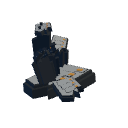
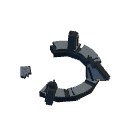
Refine local ruin architecture and separate manufactured debris candidates

Changed region(s): [[0.1562, 0.1562, 0.875, 0.8438]]

diff --git a/frontend/components/space/webgl/feature-art.ts b/frontend/components/space/webgl/feature-art.ts
@@ -95,7 +95,35 @@ export function createFeatureModel(kind: FeatureArtKind, objectId: string): THRE
   })
 
   if (kind === 'ruin' || kind === 'debris') {
-    const primary = new THREE.MeshStandardMaterial({ color: 0xb6c1c7, roughness: 0.72, metalness: 0.66 })
+    // Instance-owned brushed metal/pitting. Broad plate faces need material
+    // variation at close range as well as geometric seams; plain gray was plastic.
+    const side = 128, surface = new Uint8Array(side * side * 4), relief = new Uint8Array(side * side * 4)
+    const grain = seeded('manufactured-01-brushed-armor')
+    for (let y = 0; y < side; y++) for (let x = 0; x < side; x++) {
+      const p = (y * side + x) * 4
+      const scratch = grain() < 0.018
+      const variation = (grain() - 0.5) * 15 + Math.sin(y * 2.7) * 3 - (scratch ? 36 : 0)
+      surface[p] = 177 + variation
+      surface[p + 1] = 188 + variation
+      surface[p + 2] = 199 + variation
+      surface[p + 3] = 255
+      relief[p] = relief[p + 1] = relief[p + 2] = 180 + variation
+      relief[p + 3] = 255
+    }
+    const armorMap = new THREE.DataTexture(surface, side, side)
+    armorMap.colorSpace = THREE.SRGBColorSpace
+    const armorRelief = new THREE.DataTexture(relief, side, side)
+    for (const texture of [armorMap, armorRelief]) {
+      texture.wrapS = texture.wrapT = THREE.RepeatWrapping
+      texture.magFilter = THREE.LinearFilter
+      texture.minFilter = THREE.LinearFilter
+      texture.needsUpdate = true
+    }
+    const primary = new THREE.MeshStandardMaterial({ color: 0xd0d7dc, map: armorMap,
+      roughness: 0.66, roughnessMap: armorRelief, metalness: 0.72, bumpMap: armorRelief, bumpScale: 0.006,
+      // Restrained neutral fill keeps dead armor readable under the world's
+      // low ambient light; no bloom, animation, warning or powered-energy accent.
+      emissive: 0x52606c, emissiveIntensity: 0.16 })
     const graphite = new THREE.MeshStandardMaterial({ color: 0x29333c, roughness: 0.84, metalness: 0.58 })
     const amber = new THREE.MeshStandardMaterial({ color: 0xc19145, emissive: 0xa96718, emissiveIntensity: 0.3, roughness: 0.55, metalness: 0.45 })
     const plate = (parent: THREE.Object3D, size: [number, number, number], position: [number, number, number], material: THREE.Material) => {
@@ -138,45 +166,84 @@ export function createFeatureModel(kind: FeatureArtKind, objectId: string): THRE
       return section
     }
     if (kind === 'ruin') {
-      // A collapsed architectural spine with uneven, leaning armored buttresses.
-      const foundation = hull(1.05, random())
-      foundation.position.set(-0.08, -0.23, 0)
-      foundation.rotation.set(0.14, -0.25, 0.06)
-      assembly.add(foundation)
-      for (let i = 0; i < 4; i++) {
-        const tower = new THREE.Group()
-        tower.position.set(-0.45 + i * 0.25, -0.02, 0.18 + Math.sin(i * 1.8) * 0.16)
-        tower.rotation.set(-0.1 + i * 0.12, i * 0.22, (i - 1) * 0.17)
-        const height = i === 1 ? 0.7 : 0.28 + random() * 0.22
-        plate(tower, [0.16, height, 0.22], [0, height * 0.4, 0], graphite)
-        const armor = hull(0.38 + random() * 0.12, random())
-        armor.rotation.z = Math.PI / 2 - 0.14
-        armor.position.set(-0.04, height * 0.45, 0)
-        tower.add(armor)
-        const crown = hull(0.35, random())
-        crown.rotation.set(i * 0.17, 0.2, (i - 1) * 0.25)
-        crown.position.y = height
-        tower.add(crown)
-        // Exposed snapped reinforcement extends irregularly above broken armor.
-        for (let j = 0; j < 2; j++) {
-          const strut = plate(tower, [0.028, height * 0.4, 0.045], [-0.065 + j * 0.12, height * 0.95, 0.05], graphite)
-          strut.rotation.z = (random() - 0.5) * 0.8
+      // One broken, faceted structural spine rather than towers on a floor slab.
+      // The missing sector and empty center survive the HUD crop. No portal or
+      // bilateral halves: this is an abandoned assembly, not another lane gate.
+      const sector = (start: number, end: number, inner: number, outer: number, depth: number, material: THREE.Material | THREE.Material[]) => {
+        const shape = new THREE.Shape()
+        const points: [number, number][] = []
+        for (let i = 0; i <= 8; i++) {
+          const angle = start + (end - start) * i / 8
+          points.push([Math.cos(angle) * outer, Math.sin(angle) * outer])
         }
-        assembly.add(tower)
+        // Staggered torn ends expose the underlying frame at both breaks.
+        points.push([Math.cos(end - 0.04) * (inner + 0.035), Math.sin(end - 0.04) * (inner + 0.035)])
+        for (let i = 8; i >= 0; i--) {
+          const angle = start + (end - start) * i / 8
+          points.push([Math.cos(angle) * inner, Math.sin(angle) * inner])
+        }
+        shape.moveTo(...points[0]!)
+        for (const point of points.slice(1)) shape.lineTo(...point)
+        shape.closePath()
+        const geometry = new THREE.ExtrudeGeometry(shape, { depth, bevelEnabled: true, bevelSize: 0.012, bevelThickness: 0.012, bevelSegments: 1, steps: 1 })
+        geometry.rotateX(-Math.PI / 2)
+        return new THREE.Mesh(geometry, material)
       }
-      const fallen = hull(0.52, random())
-      fallen.position.set(0.36, -0.1, -0.35)
-      fallen.rotation.set(0.25, 0.8, -0.3)
+      const spine = sector(0.03 * Math.PI, 1.36 * Math.PI, 0.57, 0.78, 0.14, graphite)
+      assembly.add(spine)
+      for (let i = 0; i < 5; i++) {
+        const start = (0.04 + i * 0.265) * Math.PI
+        const armor = sector(start, start + (0.22 + random() * 0.015) * Math.PI, 0.58, 0.81 + random() * 0.025, 0.055, [primary, graphite])
+        armor.position.y = 0.145
+        assembly.add(armor)
+        const seam = sector(start + 0.10, start + 0.13, 0.60, 0.79, 0.012, graphite)
+        seam.position.y = 0.215
+        assembly.add(seam)
+      }
+      for (let i = 0; i < 3; i++) {
+        const angle = [0.17, 0.67, 1.19][i]! * Math.PI
+        const height = [0.29, 0.56, 0.35][i]! + random() * 0.025
+        const shape = new THREE.Shape()
+        shape.moveTo(-0.19, 0)
+        shape.lineTo(0.29, 0)
+        shape.lineTo(0.13, height * 0.76)
+        shape.lineTo(0.05, height * 0.71)
+        shape.lineTo(0.01, height)
+        shape.lineTo(-0.07, height * 0.94)
+        shape.closePath()
+        const geometry = new THREE.ExtrudeGeometry(shape, { depth: 0.12, bevelEnabled: true, bevelSize: 0.018, bevelThickness: 0.014, bevelSegments: 2, steps: 1 })
+        const buttress = new THREE.Group()
+        buttress.position.set(Math.cos(angle) * 0.73, 0.18, -Math.sin(angle) * 0.73)
+        buttress.rotation.set(0, angle, i === 1 ? 0.23 : -0.07)
+        buttress.add(new THREE.Mesh(geometry, graphite))
+        const armor = new THREE.Mesh(geometry.clone(), [primary, graphite])
+        armor.scale.set(0.82, 0.88, 0.27)
+        armor.position.set(0.012, 0.025, 0.13)
+        buttress.add(armor)
+        plate(buttress, [0.045, height * 0.72, 0.028], [-0.025, height * 0.4, 0.18], graphite)
+        plate(buttress, [0.065, 0.025, 0.02], [0.10, 0.06, 0.18], amber)
+        const snapped = plate(buttress, [0.026, 0.15, 0.032], [-0.04, height + 0.015, 0.03], graphite)
+        snapped.rotation.z = i === 1 ? -0.35 : 0.21
+        assembly.add(buttress)
+      }
+      const fallen = hull(0.27, random())
+      fallen.position.set(0.57, 0.12, 0.56)
+      fallen.rotation.set(0.28, 0.8, -0.3)
       assembly.add(fallen)
-      assembly.rotation.y = 0.4
+      assembly.rotation.y = 0.12
     } else {
-      // A few substantial torn hull sections make a cohesive wreckage cluster.
-      for (let i = 0; i < 6; i++) {
-        const section = hull(i === 0 ? 0.82 : 0.38 + random() * 0.18, random())
-        const angle = i * 2.399
-        const radius = i === 0 ? 0 : 0.38 + random() * 0.12
-        section.position.set(Math.cos(angle) * radius, (random() - 0.5) * 0.28, Math.sin(angle) * radius)
-        section.rotation.set((random() - 0.5) * 0.9, angle, (random() - 0.5) * 0.6)
+      // Separate substantial hull sections; bounded seeded offsets preserve the
+      // authored negative spaces instead of collapsing into a compact plate pile.
+      const fragments = [
+        { size: 0.78, x: -0.18, y: 0.04, z: -0.12, yaw: 0.28, roll: 0.12 },
+        { size: 0.42, x: 0.80, y: 0.05, z: 0.0, yaw: -0.65, roll: -0.18 },
+        { size: 0.35, x: -0.50, y: 0.14, z: 0.75, yaw: 1.45, roll: 0.32 },
+        { size: 0.30, x: -0.60, y: -0.08, z: -0.80, yaw: -0.9, roll: -0.24 },
+      ]
+      for (const pose of fragments) {
+        const section = hull(pose.size, random())
+        section.position.set(pose.x + (random() - 0.5) * 0.035, pose.y, pose.z + (random() - 0.5) * 0.035)
+        section.rotation.set(0.12, pose.yaw, pose.roll)
         assembly.add(section)
       }
     }

diff --git a/frontend/components/graphics/FeatureArt.stories.tsx b/frontend/components/graphics/FeatureArt.stories.tsx
@@ -14,7 +14,7 @@ function FeatureReview({ kind = 'ruin', comparison = false, animate = true, comp
     const scene = new THREE.Scene()
     addPreviewLights(scene)
     const camera = new THREE.PerspectiveCamera(35, 1, 0.01, 100)
-    camera.position.set(0, 3.8, comparison ? 14 : 4.8)
+    camera.position.set(0, compact ? 1.8 : 3.8, comparison ? 14 : compact ? 2.6 : 4.8)
     camera.lookAt(0, 0, 0)
     const models = (comparison ? kinds : [kind]).map((category, index) => {
       const model = createFeatureModel(category, `review-${category}`)
@@ -23,7 +23,7 @@ function FeatureReview({ kind = 'ruin', comparison = false, animate = true, comp
       return model
     })
     return { scene, camera, frame: (_delta, elapsed) => { models.forEach(model => advanceFeatureModel(model, elapsed * 1000)) } }
-  }, [kind, comparison])
+  }, [kind, comparison, compact])
   return <div style={{ background: '#080e19', minHeight: compact ? 0 : '100dvh', color: '#d6e2ef' }}>
     <WebGPUCanvas label={comparison ? 'Feature art comparison' : kind} createScene={createScene} animate={animate} style={{ height: compact ? 380 : '90dvh', width: '100%' }} />
     <p style={{ padding: '0 20px' }}>{comparison ? 'Back row: anomaly · ruin · nebula. Front row: gravity well · debris · radiation.' : kind}</p>
@@ -63,6 +63,19 @@ export const RuinProductionComparison: Story = {
     <div style={{ display: 'grid', gridTemplateColumns: 'repeat(auto-fit, minmax(min(100%, 280px), 1fr))', gap: 16, marginTop: 20 }}>
       <section><h2>Local procedural ruin</h2><FeatureReview kind="ruin" animate={false} compact /></section>
       <section><h2>Generated ruin candidate</h2><WebGPUModelView src="/models/space/ruin-candidate.glb" label="Generated ruin candidate" view="three-quarter" style={{ height: 380 }} /></section>
+      <section><h2>Accepted lane gate</h2><WebGPUModelView src="/models/space/lane-gate.glb" label="Accepted open lane gate" animation="Open" progress={1} playing={false} createEffect={createLaneGatePortal} view="three-quarter" style={{ height: 380 }} /></section>
+    </div>
+  </div>,
+}
+
+/** Local authored candidates, shared preview lighting and independent framing. */
+export const ManufacturedFamilyReview: Story = {
+  render: () => <div style={{ background: '#080e19', color: '#d6e2ef', minHeight: '100dvh', padding: 16 }}>
+    <h1 style={{ fontSize: 20, marginBottom: 12 }}>Manufactured family review</h1>
+    <p>Compare the broken architectural spine and detached hull sections against the accepted gate: broad gray armor, graphite structure, sparse amber details and readable negative space.</p>
+    <div style={{ display: 'grid', gridTemplateColumns: 'repeat(auto-fit, minmax(min(100%, 280px), 1fr))', gap: 16, marginTop: 20 }}>
+      <section><h2>Fractured ruin</h2><FeatureReview kind="ruin" animate={false} compact /></section>
+      <section><h2>Separated hull debris</h2><FeatureReview kind="debris" animate={false} compact /></section>
       <section><h2>Accepted lane gate</h2><WebGPUModelView src="/models/space/lane-gate.glb" label="Accepted open lane gate" animation="Open" progress={1} playing={false} createEffect={createLaneGatePortal} view="three-quarter" style={{ height: 380 }} /></section>
     </div>
   </div>,

diff --git a/frontend/components/hud/thumbnail-source.ts b/frontend/components/hud/thumbnail-source.ts
@@ -58,6 +58,10 @@ export async function renderHudThumbnail(kind: ThumbnailKind, canvas: HTMLCanvas
 
   const camera = new THREE.OrthographicCamera(-1.05, 1.05, 1.05, -1.05, 0.01, 100)
   camera.position.set(3, 2, -3)
+  // Fractured architecture and detached hull sections need their broad plate
+  // faces in the tiny crop; the low general-purpose angle reduced them to slivers.
+  // Match the elevated gameplay view without altering gate/celestial captures.
+  if (kind === 'ruin' || kind === 'debris') camera.position.set(2.4, 4.2, -3)
   camera.lookAt(0, 0, 0)
   if (feature || kind === 'gate') {
     // Fit the new compositions in camera space so thin silhouettes remain readable

diff --git a/.scratch/weekend-visual-batch/acceptance.md b/.scratch/weekend-visual-batch/acceptance.md
@@ -31,8 +31,8 @@ weekend request. Earlier draft matrices remain historical checkpoints.
 | Nebula | Complete | Broad irregular blue/rose filament cloud with gaps, visibly wider/softer than the compact anomaly or radial radiation. Existing PNG/factory retained after actual32px and world review. Tiny individual stars/filaments are not expected at gameplay distance. |
 | Gravity well | Complete locally after refinement | Dark center and flattened nested lens traces remain distinct from luminous anomaly. Strengthened two structural traces and ring opacity; actual32px dark/light and both renderer world reviews pass. Not a physically accurate lens simulation. |
 | Radiation | Complete | Open mint/gold rays and particles retain a radial/dispersed silhouette; darker carriers retain structure on light panels. Existing revised factory/PNG retained. Does not imply active damage or warning severity. |
-| Ruin | Incomplete: architectural silhouette/finish | Current upright capped modules and broad lower slab still read as a blocky tower cluster, rather than a clearly fractured asymmetric structural spine. Engineered family colors are present, but surface finish is simpler than accepted gate. Soft generated01 is rejected for replacement. |
-| Debris | Incomplete: fragment separation/finish | Current overlapping plate clusters can merge into a single compact slab silhouette at32px/gameplay angle. Need clearly detached substantial hull fragments and visible gaps, with exposed ribs/cut plate thickness. Rounded generated01 pods are rejected for replacement. |
+| Ruin | Geometry/readability pass; close finish incomplete | Rebuilt as a fractured faceted spine with open center/missing sector, three unequal armored buttresses, one leaning/snapped rib and detached plate. Brushed metal and graphite layering improve finish, but authored edge wear, detailed cut surfaces and seam treatment still fall short of the accepted gate. Soft generated01 remains rejected. |
+| Debris | Separation/readability pass; close finish incomplete | One dominant armored section and three clearly detached substantial fragments replace the overlapping pile. Four independent components survive32px with visible gaps; raised capture angle prevents slivers. Layered armor/ribs/amber and brushed metal are present. Authored torn-edge detail and texture finish still fall short of gate. Rounded generated01 remains rejected. |
 
 ## Refinement evidence
 
@@ -66,11 +66,11 @@ Physical device loss and iPhone graphics remain outside these proven checks.
 
 ## Specific next steps
 
-1. Local ruin revision: replace the tower row with one incomplete asymmetric spine,
+1. Completed local ruin revision: replaced the tower row with one incomplete asymmetric spine,
    three broad buttresses of unequal lengths, one leaning rib and a detached plate.
    Pass when the broken main arc, graphite gaps and gray plate faces survive32px
    on both surfaces and gameplay120; reject intact gate/ring/base silhouettes.
-2. Local debris revision: one dominant ruptured hull section plus2–4 detached
+2. Completed local debris revision: one dominant ruptured hull section plus3 detached
    substantial sections, with at least two clearly visible background gaps at32px.
    Preserve thickness/bevels and sparse amber; reject intact vehicles/rocks/pods.
 3. For each manufactured revision, compare against accepted gate in the same light
@@ -84,3 +84,53 @@ Physical device loss and iPhone graphics remain outside these proven checks.
    No consent, endpoint, deadline or agent-guide change is part of art promotion.
 
 No comparison image was added to public/, external Storybook, or any upload service.
+
+## Manufactured local revision evidence
+
+The structural/readability steps above were completed locally. These are the best
+local candidates retained in feature-art.ts and the corresponding ruin/debris PNGs;
+they are not promoted as final manufactured-production art. The protected preview
+continues serving its previous compiled/captured versions.
+
+- Removed the ruin's floor-like slab/tower row. The new connected broken arc has
+  faceted graphite structure, segmented beveled gray plating, staggered torn ends,
+  three unequal buttresses, a leaning snapped rib and one detached plate. No portal,
+  mirrored gate halves or complete ring. All are bounded inside the existing mark.
+- Debris now has one dominant panel shell and three differently oriented smaller
+  sections, authored negative spaces and narrowly bounded seeded variation. Broad
+  beveled faces, offset armor layers, exposed ribs and sparse amber details remain.
+- Raised only ruin/debris's offline capture angle to show broad hull faces rather
+  than foreshortened slivers; no gameplay camera or accepted gate crop changed.
+- Added deterministic instance-owned128px brushed-metal/pitting color and
+  roughness/bump textures. These are local procedural textures, not gate-atlas
+  copies, generated-provider assets or external uploads. Plain diffuse gray looked
+  plastic in the shared-light comparison and was rejected during iteration.
+- A restrained neutral material fill keeps plate faces from disappearing under
+  low world ambient light. It adds no bloom, animation or powered-energy accent;
+  the world light rig and accepted gate are untouched. Dead wreckage remains
+  quieter than natural luminous effects, especially at gameplay distance.
+- Final32px alpha diagnostic (threshold64/255,8-connected): ruin main151 pixels
+  plus detached11-pixel plate; debris four substantial separate components53,18,9,9
+  pixels. Three clear gaps separate the smaller hull pieces from the main section.
+  This supports actual dark/light browser review; it does not certify recognizability
+  at arbitrary distance. Fine details still disappear at gameplay120.
+- Actual local Manufactured Family Review places both candidates beside accepted
+  gate in the same light rig with comparable framing. Chrome confirms three native
+  WebGPU renderers; actual world compatibility review confirms real WebGL2 ready.
+  Actual32px source images load on both surfaces. Gameplay120 review remains bounded
+  by the normal small projected geometry; labels/HUD are still essential.
+- Feature factory20, thumbnail24 and world spacecraft20 tests pass (64 total in
+  this scoped run), plus TypeScript/scoped lint and file validators. Instance
+  ownership/disposal includes the new textures. Only ruin/debris PNGs changed;
+  other13 are byte-identical to the preceding local commit.
+
+Concrete remaining quality limitation: procedural grain is uniform surface
+variation, not the gate's authored panel atlas. The candidates' broad armor and
+fractured silhouette now communicate their purpose, but large close views still
+show simpler cut-face damage, seam depth and bevel-edge wear than the gate. Do not
+claim that geometry tests or a noise map meet that final authored-asset standard.
+The next production-quality step is dedicated UV/PBR and fracture-surface authoring
+for these meshes, or an image-guided replacement that passes the same review.
+The latter still requires the unapproved private-reference upload; it is not the
+only conceivable route and is not a reason to weaken the quality gate. No new
+spend, upload, public build, comparison publication or push occurred.

diff --git a/.scratch/weekend-visual-batch/status.md b/.scratch/weekend-visual-batch/status.md
@@ -160,3 +160,19 @@ Ruin's tower/slab architecture and debris's overlapping silhouette remain specif
 unfinished work. Local revision steps are documented; Meshy upload is optional and
 still blocked. Protected preview/build remains unchanged during these local edits.
 No comparison image uploaded or published. Entire weekend work is not complete.
+
+## Local manufactured candidates improved
+
+- Ruin now has broken faceted spine/empty sector, three unequal buttresses and
+  detached plate; debris has one dominant hull plus three detached sections.
+- Raised only these two thumbnail capture angles; four separate debris components
+  survive32px (53/18/9/9 pixels at alpha64), with clear gaps. Other13 PNGs unchanged.
+- Added local instance-owned brushed-metal/roughness/bump detail after plain gray
+  looked plastic beside gate. Actual family comparison, dark/light32px, world
+  native/real WebGL2 and gameplay checks performed. Scoped64 tests/type/lint pass.
+- Geometry/readability criteria pass. Final close-view manufactured finish remains
+  incomplete: authored panel wear, fractured edge/cut surfaces and seam detail need
+  dedicated UV/PBR/fracture authoring or an acceptable image-guided replacement.
+  Best local candidates retained; rejected soft/rounded provider candidates unused.
+- Local Manufactured Family Review story only; protected compiled game/Storybook
+  unchanged. No comparison upload/publication, provider spend, push or consent action.
